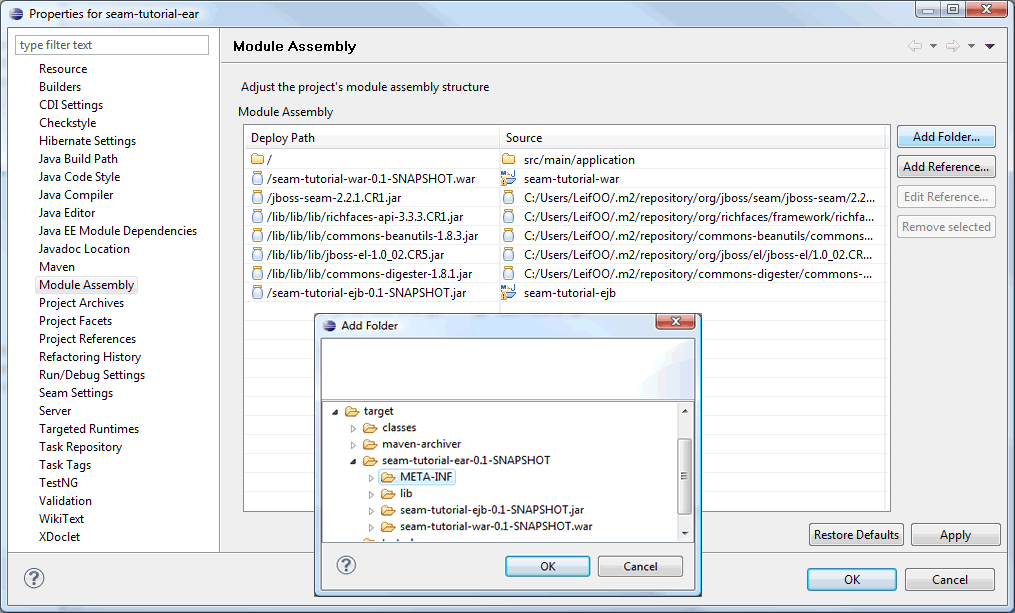
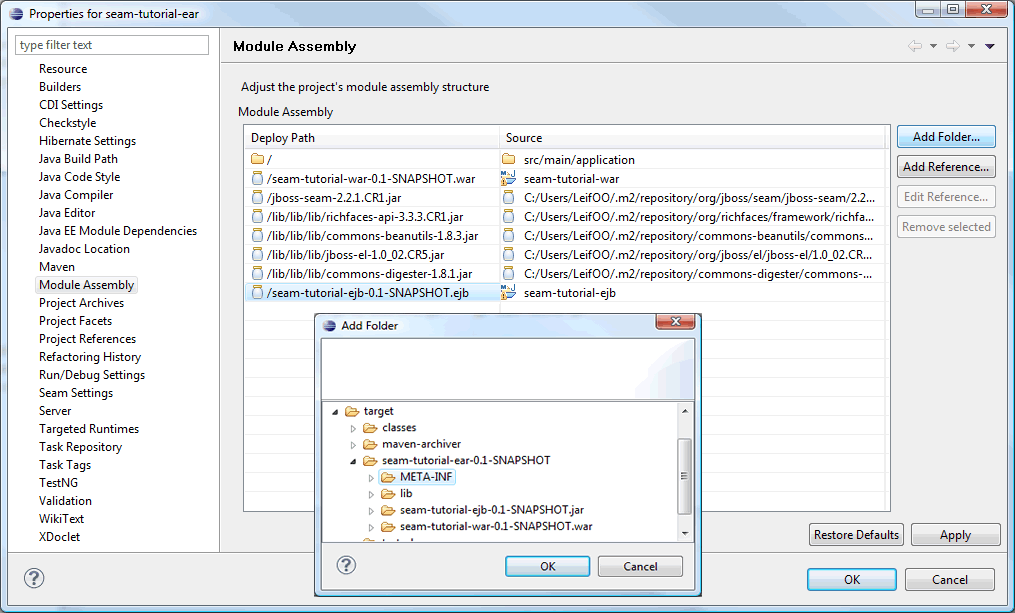
Updated tutorial

Changed region(s): [[0.2443, 0.4649, 0.4887, 0.4959]]

diff --git a/doc/tutorial/02-eclipse.html b/doc/tutorial/02-eclipse.html
@@ -423,7 +423,9 @@ in the project and provides a hierarchical list of them.</p>
     mvn package. The <code>maven-ear-plugin</code> is preconfigured with the actual configuration in 
     the project templates &quot;root&quot; POM - so you don't need to worry about this error. For further details see: 
     <a href="https://issues.sonatype.org/browse/MNGECLIPSE-1541">MNGECLIPSE-1541</a> and 
-    <a href="https://issues.sonatype.org/browse/MNGECLIPSE-2145">MNGECLIPSE-2145</a>.
+    <a href="https://issues.sonatype.org/browse/MNGECLIPSE-2145">MNGECLIPSE-2145</a>.<br/><br/>
+    m2eclipse uses Maven3 internally even if we have configured Eclipse to use en external Maven 2.2.x  installation,
+    so the build error is connected to this as well.
   </li>
   <li>
     Fix annoyances.<br/>
@@ -458,38 +460,44 @@ in the project and provides a hierarchical list of them.</p>
     </div>
   </li>
   <li>EAR Module Assembly<br/>
-  	<!--
-    <div class="inline-block" style="width:14.4%;">
-      <img src="img/eclipse-annoyance-08.png" longdesc="img/eclipse-annoyance-08.png" 
-        class="screenshot" style="width:100%; margin-bottom:.3em;" />
-        Wrong EAR Module Assembly
-    </div>
-    -->
     <div class="inline-block" style="width:48.5%;">
       <img src="img/eclipse-annoyance-06_1.png" longdesc="img/eclipse-annoyance-06_1.png" 
         class="screenshot" style="width:100%; margin-bottom:.3em;" />
-      References seam-tutorial-ejb.<strong>ejb</strong>
+      <ul>
+      <li>Rename seam-tutorial-ejb.<strong>ejb</strong> to seam-tutorial-ejb.<strong>jar</strong></li>
+      <li>Delete <code>src/main/application</code></li>
+      <li>Add folder <code>target/seam-tutorial-ear-0.1-SNAPSHOT/META-INF</code></li>
+      </ul>
     </div>
     <div class="inline-block" style="width:48.5%;">
       <img src="img/eclipse-annoyance-07_1.png" longdesc="img/eclipse-annoyance-07_1.png" 
         class="screenshot" style="width:100%; margin-bottom:.3em;" />
-      Must reference seam-tutorial-ejb.<strong>jar</strong>
+      <ul>
+      <li>&quot;Correct&quot; Module Assembly</li>
+      </ul>
     </div>
   </li>
   <li>WAR Module Assembly<br/>
     <div class="inline-block" style="width:48.5%;">
       <img src="img/eclipse-annoyance-09.png" longdesc="img/eclipse-annoyance-09.png" 
         class="screenshot" style="width:100%; margin-bottom:.3em;" />
+      <ul>
+      <li>Add folder <code>target/seam-tutorial-war-0.1-SNAPSHOT/WEB-INF</code></li>
+      </ul>
     </div>
     <div class="inline-block" style="width:48.5%;">
       <img src="img/eclipse-annoyance-10.png" longdesc="img/eclipse-annoyance-10.png" 
         class="screenshot" style="width:100%; margin-bottom:.3em;" />
+      <ul>
+      <li>&quot;Correct&quot; Module Assembly</li>
+      </ul>
     </div>
   </li>
   <li>
     Run Maven install.
-    <img src="img/eclipse-import-maven-09.png" longdesc="img/eclipse-import-maven-09.png" 
-      class="screenshot" style="width:500px;" />
+      <img src="img/eclipse-import-maven-09.png" longdesc="img/eclipse-import-maven-09.png" 
+      class="screenshot" style="width:500px;" /> 
+    This will fix the build error mentioned earlier. 
   </li>
 </ol>
 
